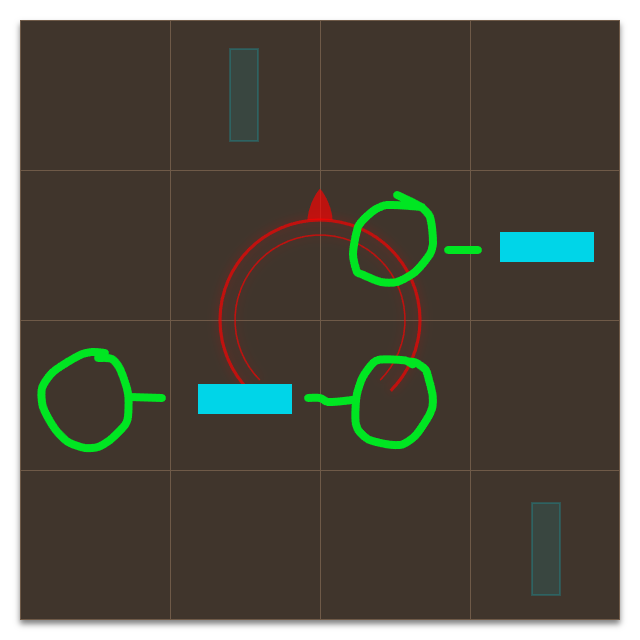
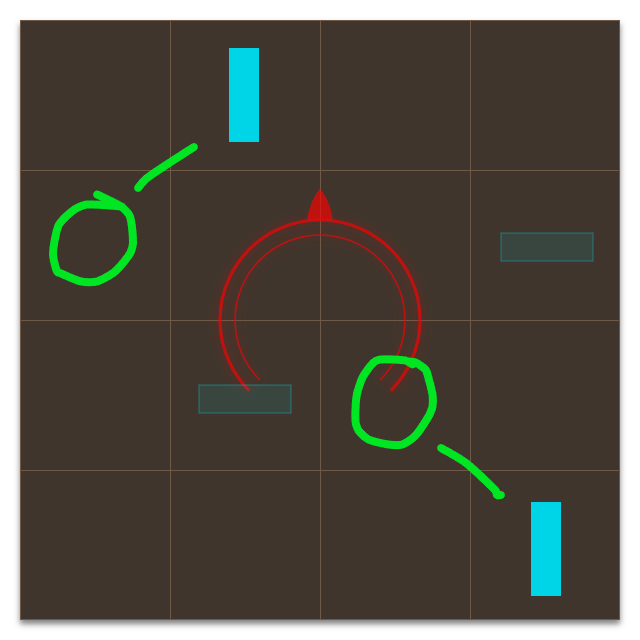
Simplifying fluke gale to ensure bubbles end up in the 2 quadrant

diff --git a/guides/_ew/aai/ketuduke/fluke-gale.md b/guides/_ew/aai/ketuduke/fluke-gale.md
@@ -38,7 +38,7 @@ root: ..
 </div>
 
 **Bubbles ![bubble]**
-: {: .mb-5 } Stand next to the horizontal crystal (facing north) on your side.
+: {: .mb-5 } Diagonal of the vertical crystal on your side.
 
 **Sticky Feet ![foamy]**
 : Solve the H to find the safe spots.
@@ -148,33 +148,24 @@ the debuff they received.
 ## ![bubble] Bubble Weave
 
 <div class="mechanics" markdown="1">
-> Bubble players have it easy. Find the horizontal (north/south facing) crystal
-> on your side, and stand one square next to it. You will be blown to the
-> safe spot on the other side automatically.
+>Find the vertical (east/west facing) crystal on your side, and stand one square
+> diagonally from it, within the same quadrant that it spawned in.
 >
-> *This will not work if your group splits the arena east/west.*
+> This will always place you in the 2 quadrant, meaning you can easily see where
+> you will be blown to.
 
 ![](./bubble-ez.png)
-
-> **Note for PF:** The Pastebin guide explicitly requires bubble players to
-> start in the 2 quadrant. While this isn't strictly necessary, it serves two
-> purposes:
->
-> * Easier to tell if everyone is in the correct spots.
-> * Easier to tell who's will end where, and give melee players uptime.
->
-> The above rule with the horizontal crystal will typically put you in the 1
-> quadrant. If your group wants to utilize the benefits of starting in the 2
-> quadrant, then use the safe spots pictured to the right, relative to the
-> horizontal crystal.
-
-![](./bubble-ez-2.png)
 </div>
 
 {: .warning .mt-8 }
 > Standing too close to the corner or edge of a square can result in a spread
 > reaching across a gap into another safe spot, or a stack marker missing your
 > partner.
+
+{: .info .mt-8 }
+> Because we have the *![bubble]Bubble* players begin on the 2 quadrant, it is
+> easy to see where each player's ending locations will be. You can use this info
+> to position yourself for melee uptime.
 
 {: .mechanics .mt-8 }
 {% collapse More Info - Why It Works %}
@@ -214,8 +205,9 @@ the debuff they received.
 > next to a crystal in its quadrant, you will end up in the same spot relative
 > to that crystal after both blows happen.
 >
-> Because of this, an alternative strategy is to stand diagonal of the vertical
-> crystal on your side. It will have the same effect.
+> Because of this, an alternative strategy is to next to the horizontal crystal
+> on your side. If you end up in the 1 quadrant, you will be blown to the safe
+> spot in the 2 quadrant.
 
 ![](./solve-bubble.png)
 {% endcollapse %}
